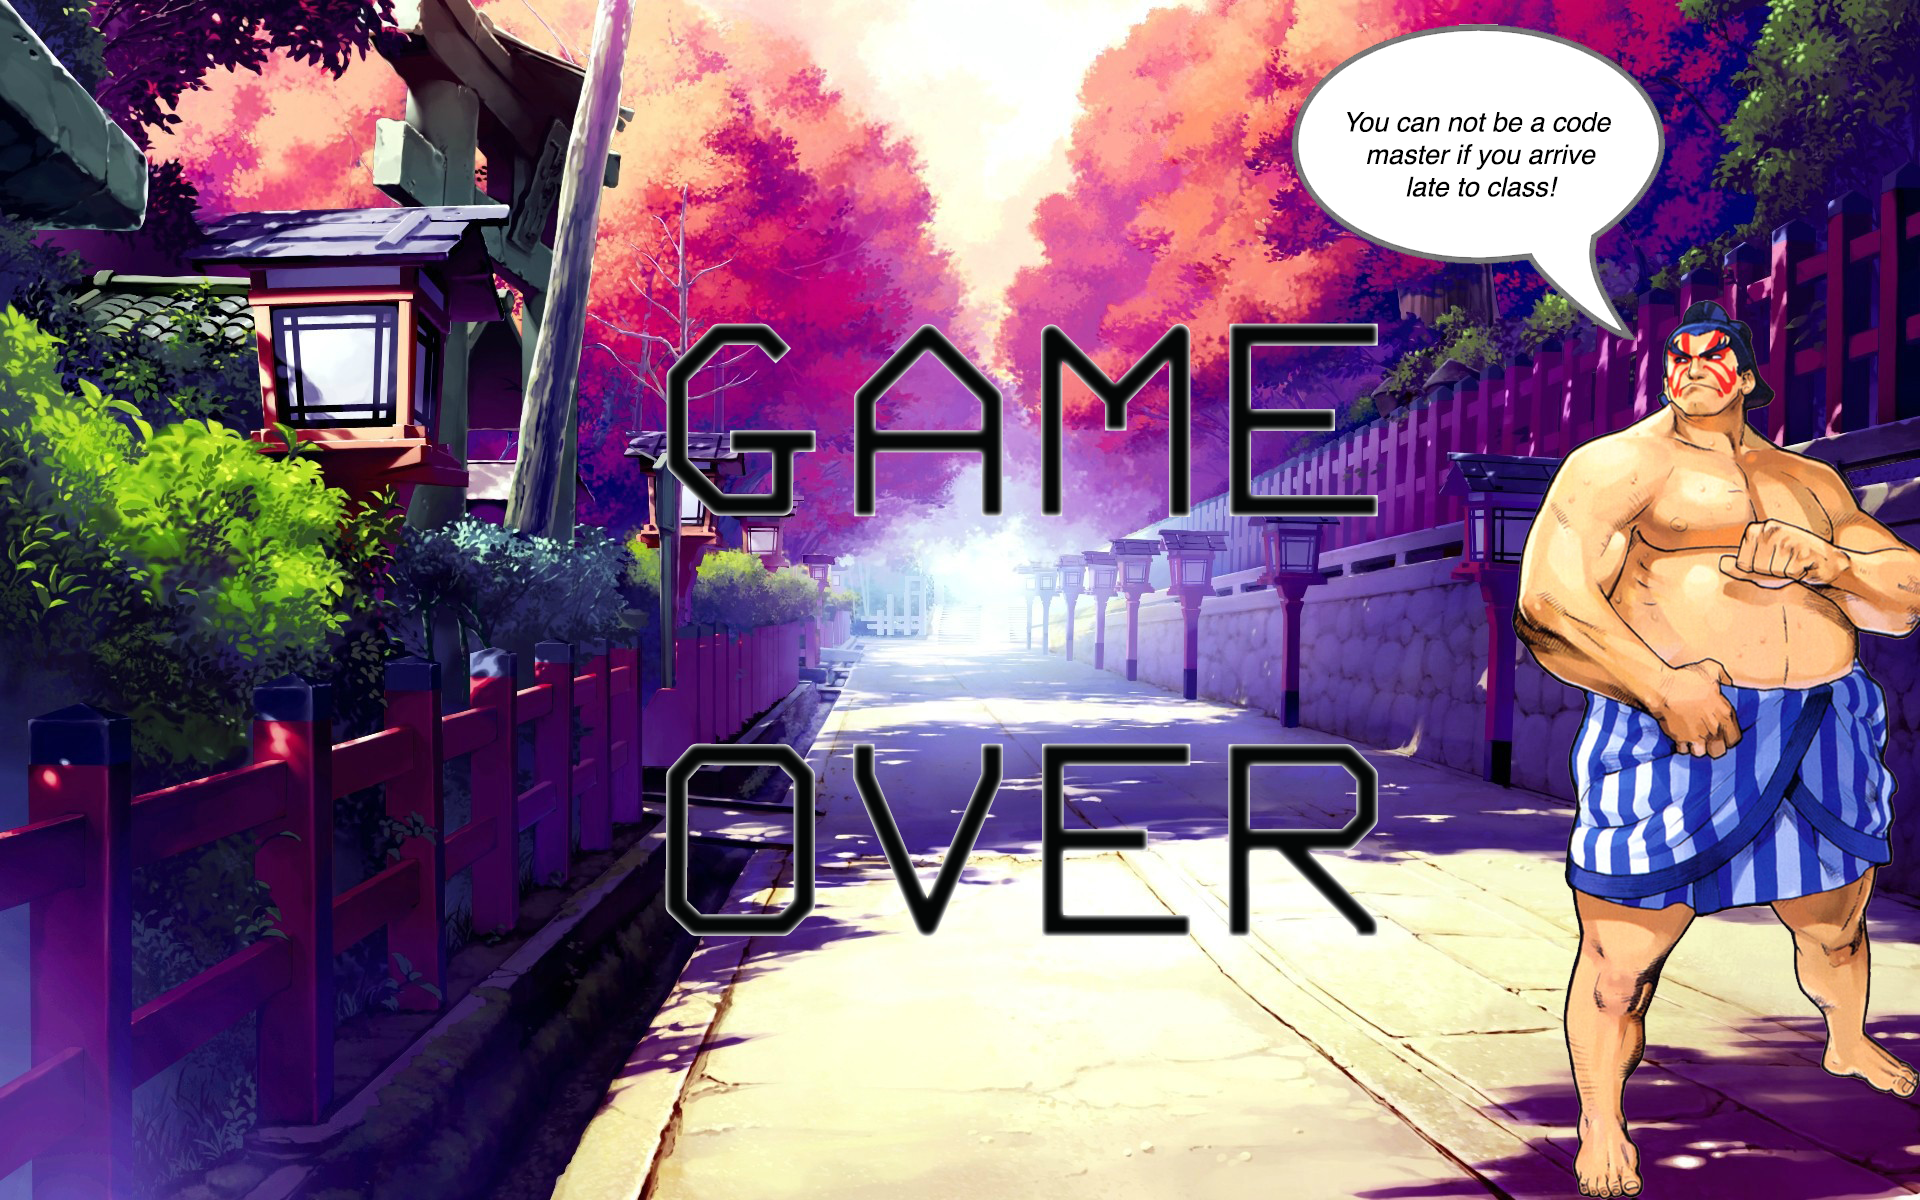
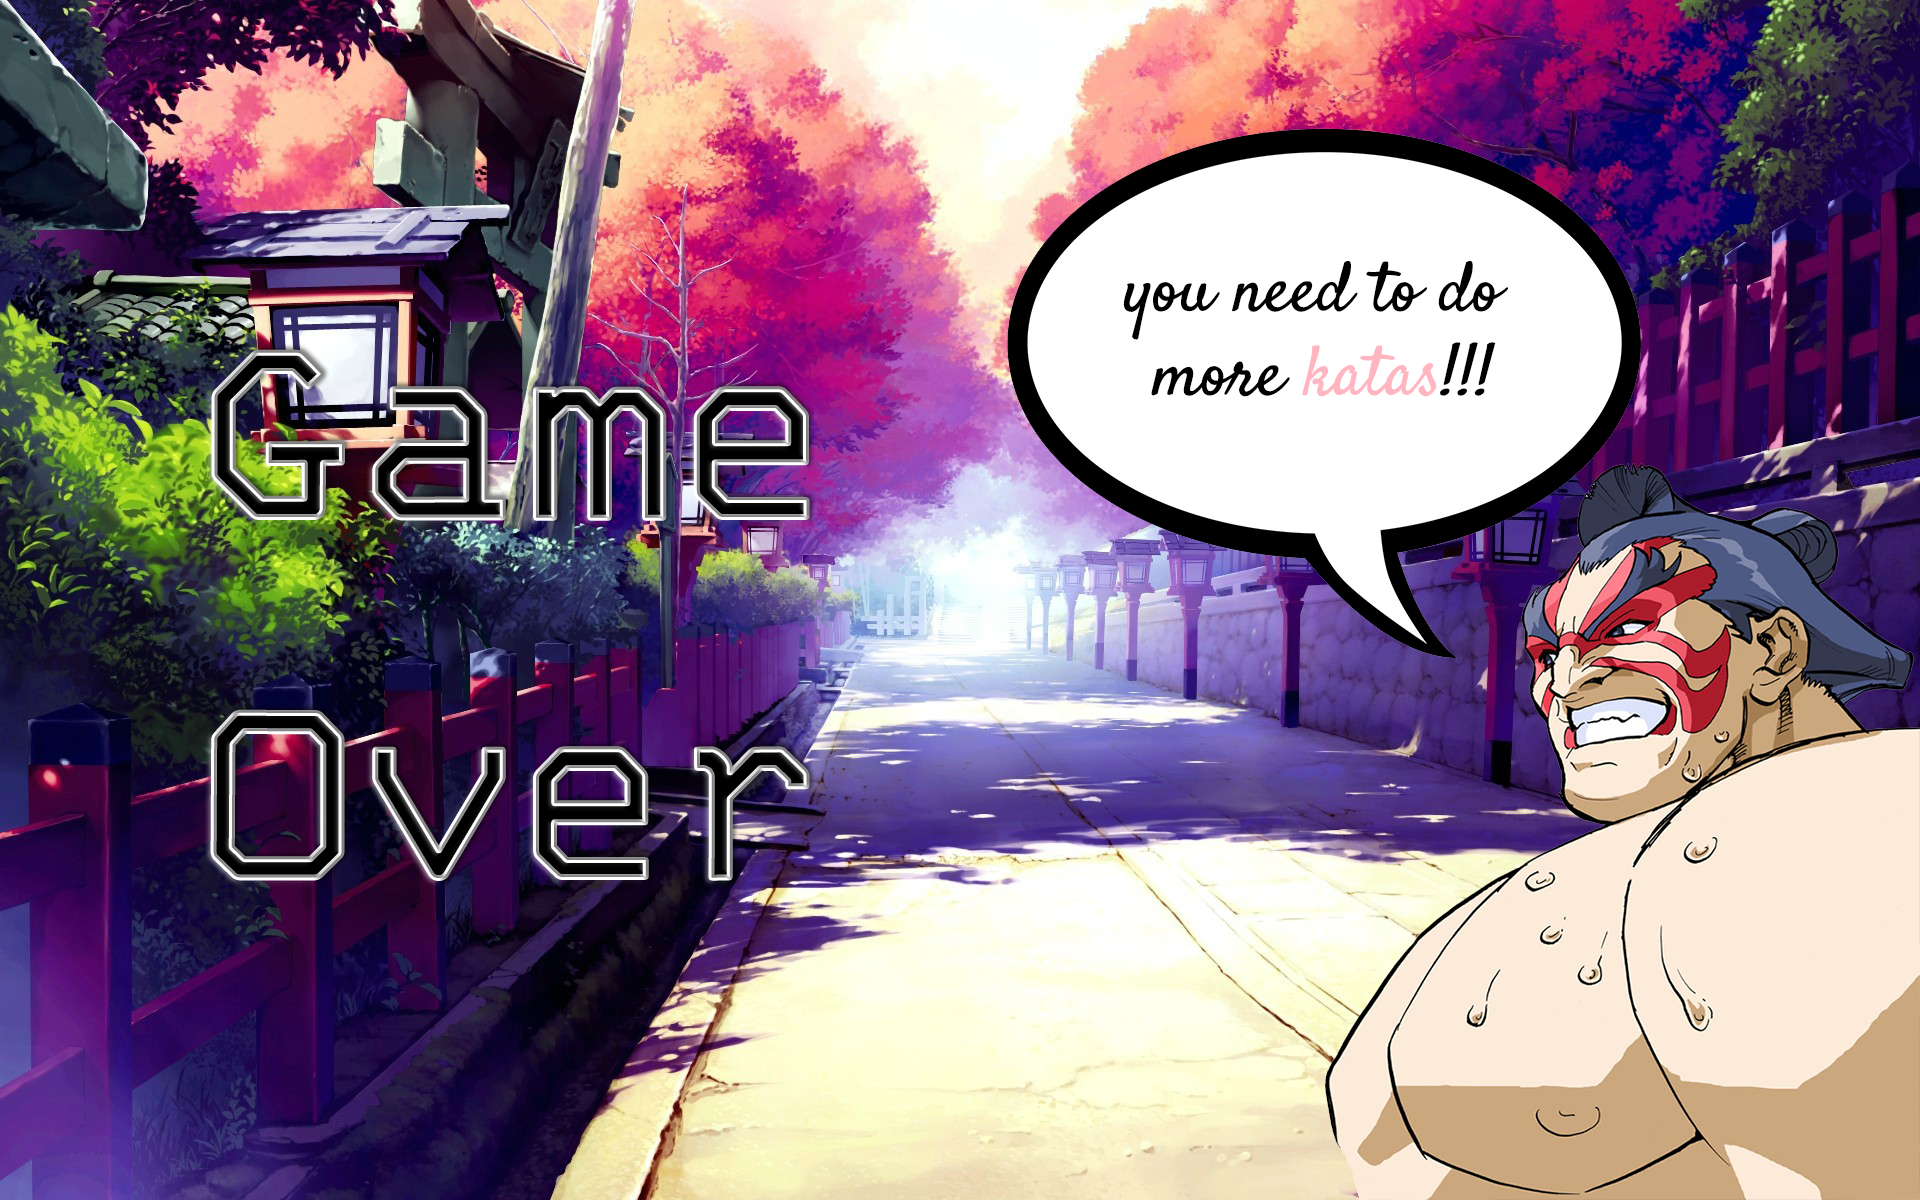
limpieza de archivos, mejora de backgrounds

diff --git a/index.html b/index.html
@@ -23,10 +23,10 @@
     <button id="playAgainBtn" onclick="location.href='index.html'">New Game</button>
   </div>
   <div class="gameNote">
-    <p>Sakura arrives late at <b>IronHack</b> to deliver the <b>DE</b>.
+    <!-- <p>Sakura arrives late at <b>IronHack</b> to deliver the <b>DE</b>.
        Help her overcome obstacles and take as much food as possible 
        along the way.
-    </p>
+    </p> -->
   </div>
   <script type="text/javascript" src="./starter-code/hearts.js"></script>
   <script type="text/javascript" src="./starter-code/obsImg.js"></script>

diff --git a/starter-code/styles.css b/starter-code/styles.css
@@ -1,7 +1,7 @@
 @import url('https://fonts.googleapis.com/css?family=Satisfy');
 
 body {
-  background-image: url("./images/backgroundhtml/alterbackground2.png");
+  background-image: url("./images/backgroundhtml/alterbackground2alter.png");
   background-repeat: no-repeat;
   background-size: cover;
 }
